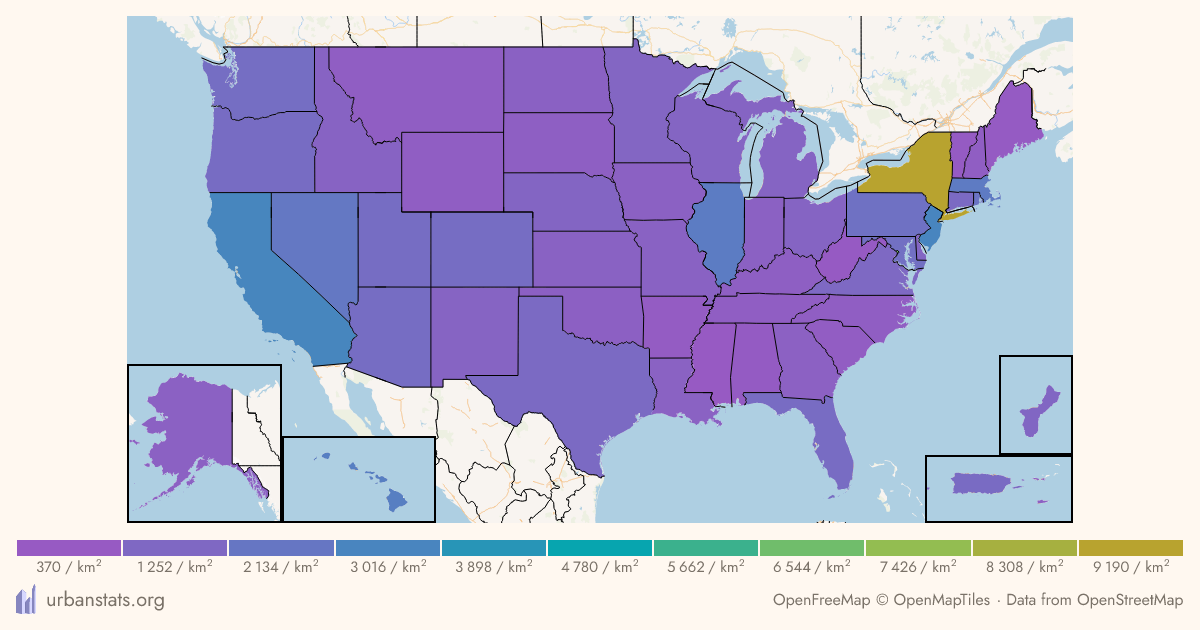
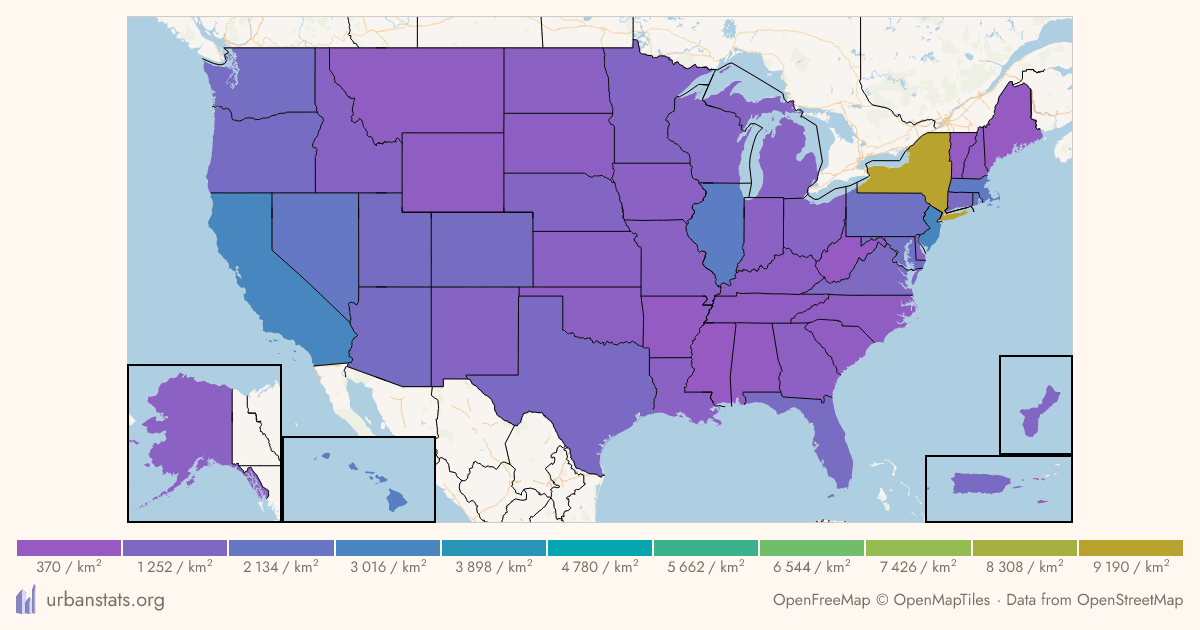
Draw a border around a card's main maps (#2456)
The site draws a border around a map; the embed card did not, which
nobody could see while one map filled the whole box. Two universes far
enough apart get a main map each, side by side, and then the missing
border is the difference between one image and two.

Middle of a three-branch stack, over #2457 and under #2458. The
reference screenshots here change for every card, so it is worth landing
on its own.

The `RECORD_OG_TILES` line is here because recording tiles is impossible
without it under `--docker`, which is the only way to regenerate these
screenshots — a card came out with half its basemap missing and the
cause was the runner dropping the variable, not the recorder.

🤖 Generated with [Claude Code](https://claude.com/claude-code)

diff --git a/react/cf-og-worker/src/embed.tsx b/react/cf-og-worker/src/embed.tsx
@@ -77,11 +77,14 @@ const colors = {
     rule: '#d8cfc4',
     shape: '#5a6ebd',
     insetBorder: theme.mapInsetBorderColor,
+    mapBorder: theme.borderNonShadow,
 }
 /* eslint-enable no-restricted-syntax */
 
-// insetBorderWidth in map-common, which the Worker cannot import: it would pull maplibre in.
+// insetBorderWidth in map-common and mapBorderWidth in screenshot, which the Worker cannot import:
+// they would pull maplibre in.
 const insetBorderWidth = 2
+const mapBorderWidth = 1
 
 // openfreemap's credit line, as its TileJSON states it.
 const tileAttribution = 'OpenFreeMap © OpenMapTiles · Data from OpenStreetMap'
@@ -351,7 +354,9 @@ async function insetImage(map: MapCard, inset: Inset, box: { width: number, heig
             src={mapImage(content, width, height)}
             width={width}
             height={height}
-            style={inset.mainMap ? {} : { border: `${insetBorderWidth}px solid ${colors.insetBorder}` }}
+            style={inset.mainMap
+                ? { border: `${mapBorderWidth}px solid ${colors.mapBorder}` }
+                : { border: `${insetBorderWidth}px solid ${colors.insetBorder}` }}
         />
     )
 }

diff --git a/react/test/scripts/run-e2e-tests-docker.ts b/react/test/scripts/run-e2e-tests-docker.ts
@@ -30,7 +30,8 @@ export async function runE2eTestsDocker(args: string[], hostArch: boolean, docke
             // built for the container.
             '--mount', 'type=tmpfs,dst=/urbanstats/react/node_modules',
             '-w', '/urbanstats/react',
-            ...(['PORT', 'TESTCAFE_PORT'].flatMap(envVar => process.env[envVar] ? ['-e', `${envVar}=${process.env[envVar]}`] : [])),
+            // RECORD_OG_TILES: the tile snapshots a card test needs are fetched by the test process, which is in here
+            ...(['PORT', 'TESTCAFE_PORT', 'RECORD_OG_TILES'].flatMap(envVar => process.env[envVar] ? ['-e', `${envVar}=${process.env[envVar]}`] : [])),
             '-e', `URBANSTATS_VNC_PASSWORD=${vncPassword}`,
             '-e', `URBANSTATS_VNC_PORT=${vncPort}`,
             imageName,
